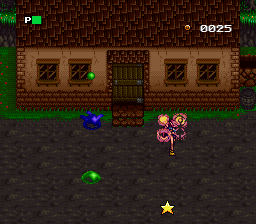
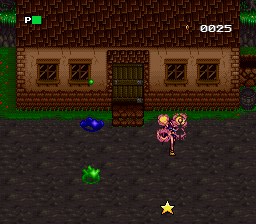
Help overlay: per-character background (Hornisse deep blue, Sara deep crimson-magenta, Ryo dark green; text colours unchanged); Sara's Y renamed Wing spin (frame-by-frame in Mesen: she turns a full circle with wings spread, no kick, no projectile); palette restore re-verified byte-identical

diff --git a/tools/py/helpgfx.py b/tools/py/helpgfx.py
@@ -63,7 +63,7 @@ def page(name,moves,btn):
 P={0:('HORNISSE',[('A+B','Morning star'),('Mash B','Sword frenzy'),('Spin D-pad','then A: Lightning'),('','(costs 1/10 of gold)'),('X','X special (uses 1)')],
       {'B':'Stab','A':'Slash','Y':'Slash'}),
    1:('SARA',[('A+B','Homing flame'),('B+Y','Star fall'),('Spin D-pad','then B: Dragon Fire'),('','(costs 1/10 of gold)'),('X','X special (uses 1)')],
-      {'B':'Fire shot','A':'Spark shot','Y':'Kick'}),
+      {'B':'Fire shot','A':'Spark shot','Y':'Wing spin'}),
    2:('RYO',[('A+B','Bombs'),('B+Y','Wall of fire'),('Spin D-pad','(slow) then Y:'),('','Shadow clones'),('','(costs 1/10 of gold)'),('X','X special (uses 1)')],
       {'B':'Sickle','A':'Chain sickle','Y':'Throw blade'})}
 tiles={bytes(16):0}; chr_=bytearray(16); maps=bytearray(); prev=[]

diff --git a/docs/MOVES.md b/docs/MOVES.md
@@ -27,7 +27,7 @@ Button tables: C0:894B (Hornisse), C0:88FE (Sara), C0:8998 (Ryo). Each maps a bu
 | rotate the D-pad, then B | Dragon Fire | 10% gold (min 10G) |
 | B | fire shot (sparks fly forward) | free |
 | A | spark shot (small magic bolt) | free |
-| Y | kick (close range) | free |
+| Y | wing spin (she turns a full circle with her wings spread; close range, no projectile) | free |
 | B+Y | star fall (Sara glows gold, then a huge star crashes down) | free |
 | A+B | homing flame | free |
 | X | X special | 1 X-special use |
